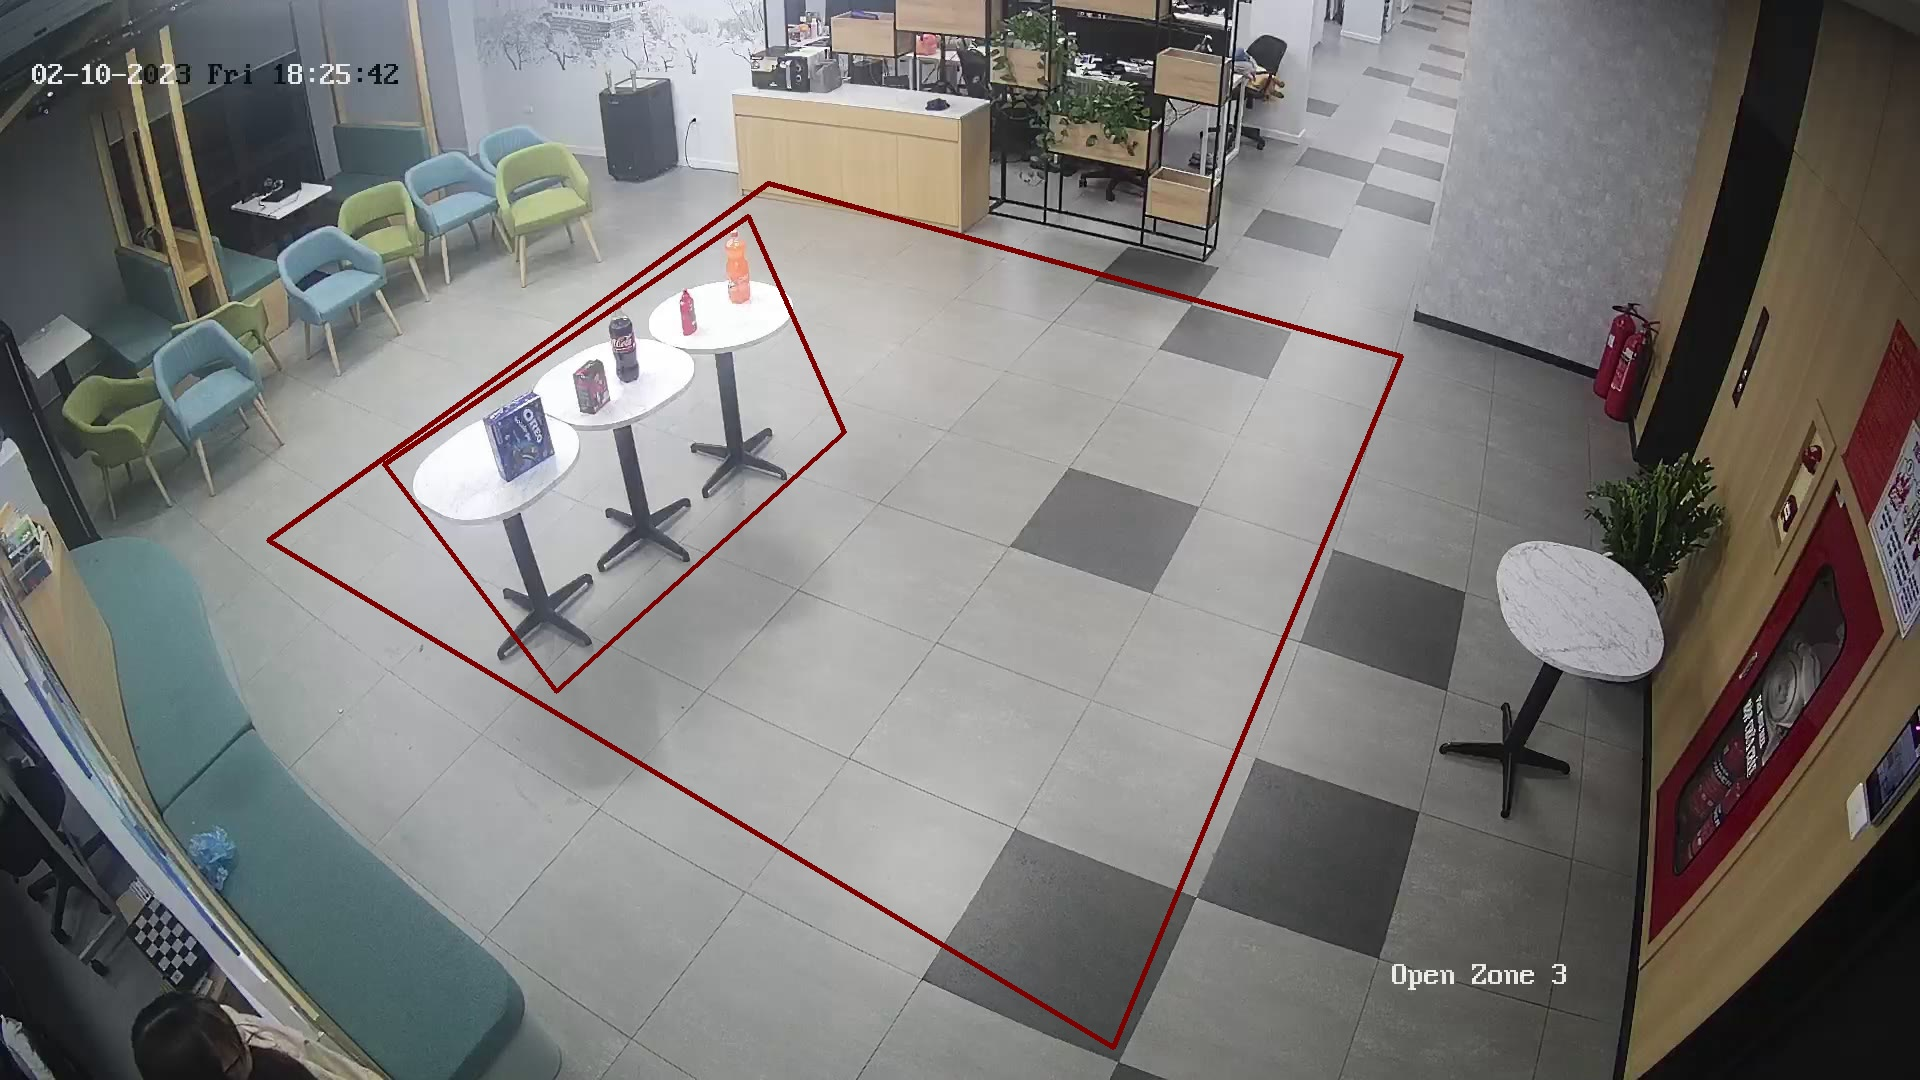
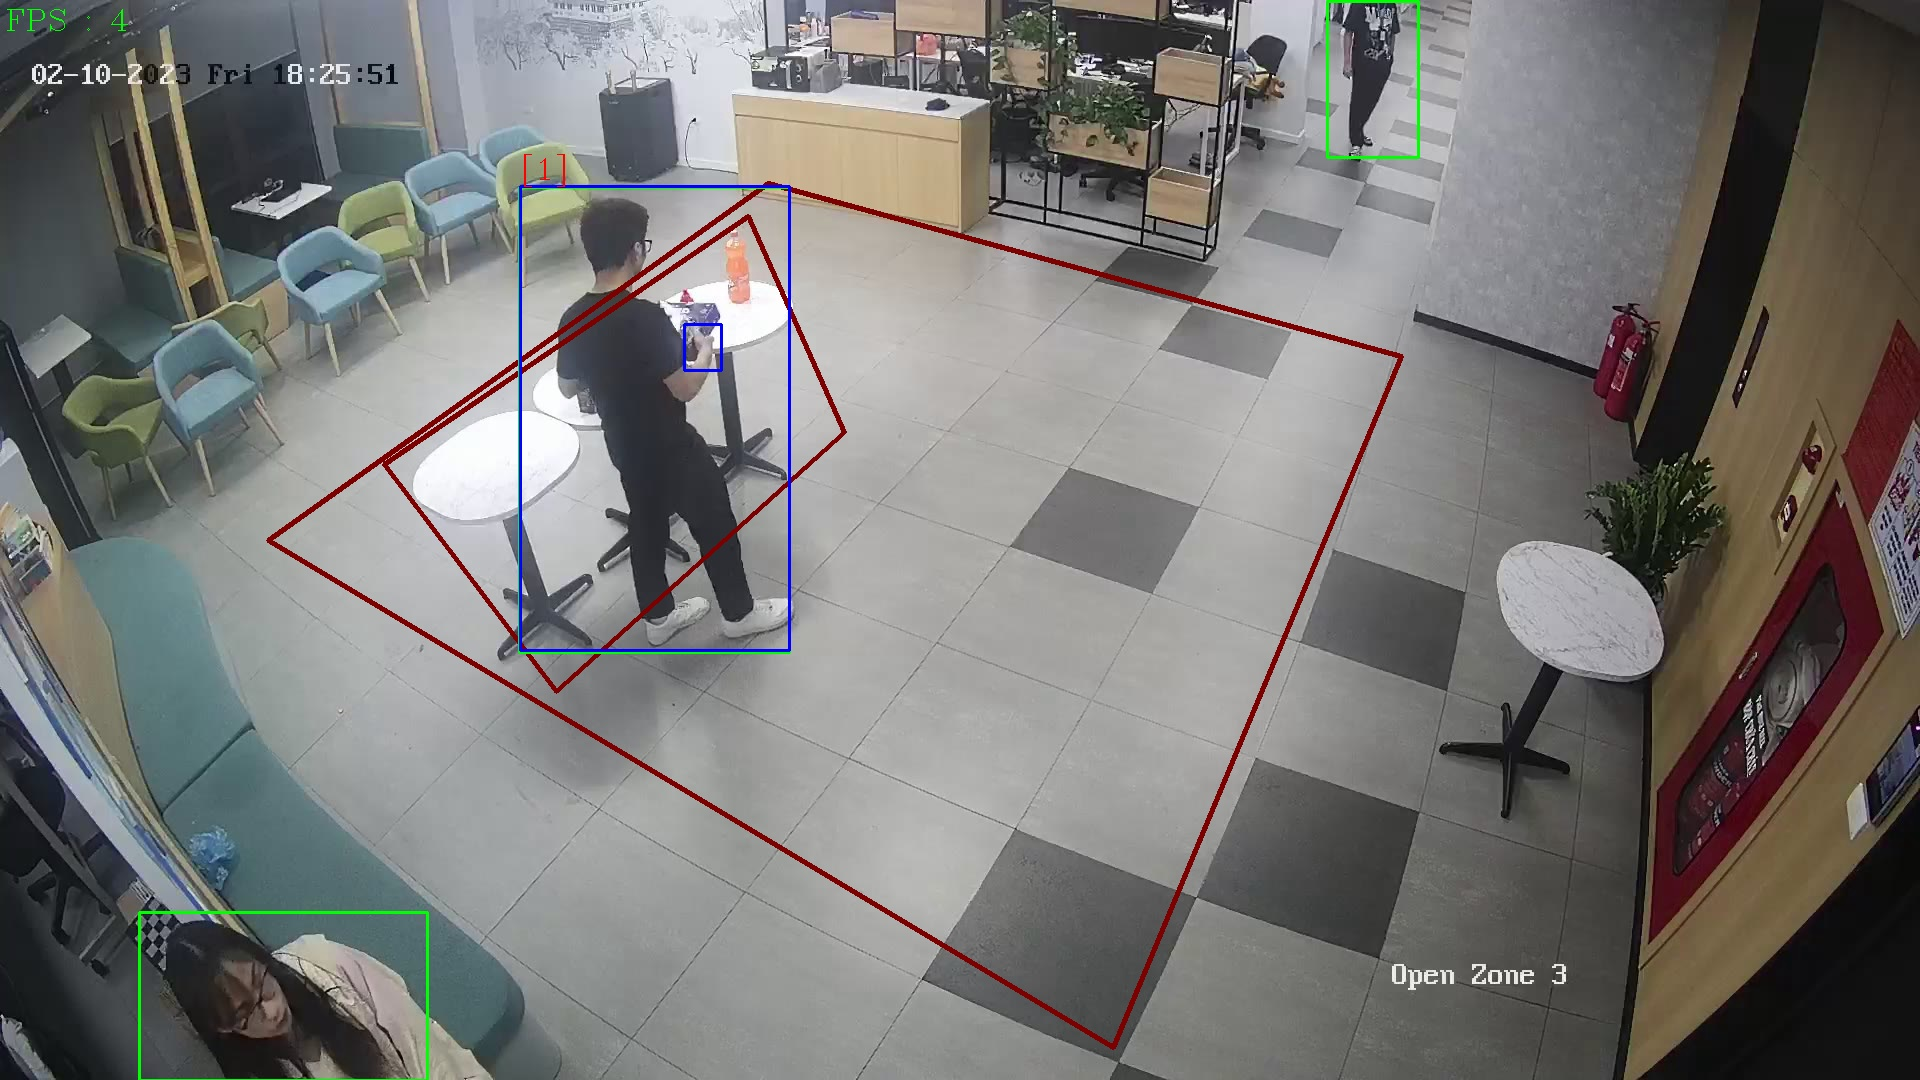
fix wrong type of object (numpy array)

diff --git a/frame_process.py b/frame_process.py
@@ -70,7 +70,7 @@ class Frame(object):
         for i, box in enumerate(self.boxes):
             if self.classes_id[i] != 0 and self.classes_id[i] != 6:
                 i_box = Box(Point(box[0], box[1]), Point(box[2], box[3]))
-                i_obj = Item(self.classes_id[i], box[4], i_box, frame_id=self.ith)
+                i_obj = Item(self.classes_id[i], i_box, box[4], frame_id=self.ith)
                 self.frame_objs["items"].append(i_obj)
                 
     def tracking(self, input_size, aspect_ratio_thresh, min_box_area, visualize=True):
@@ -81,7 +81,6 @@ class Frame(object):
             box_area = []
             for box in self.human_boxes:
                 area = self.which_human_area(box[:4])
-                print(area)
                 box_area.append(area)
             box_area = np.array(box_area)
             self.human_boxes = self.human_boxes[box_area != "outside"]
@@ -127,15 +126,21 @@ class Frame(object):
                 
                 # append human objects 
                 for i, box in enumerate(self.human_boxes):
+                    
                     p_box = Box(Point(box[0], box[1]), Point(box[2], box[3]))
                     p_id = box[-1]
                     hands = self.hands_boxes[self.hands_boxes[:,-1] == p_id]
                     hands_list = list()
+                    
                     for h in hands:
+                        print("h ", h)
                         h_box = Box(Point(h[0], h[1]), Point(h[2], h[3]))
+                        print("h_box ", h_box)
                         h_obj = Hand(6, h_box, h[4], h[-1], frame_id=self.ith)
+                        print("h_obj ", h_obj.box.top_left.x)
                         hands_list.append(h_obj)
-                    p_obj = Human(0, online_scores[i], p_box, online_ids[i], hands_list, frame_id=self.ith)
+                    p_obj = Human(0, p_box, online_scores[i], online_ids[i][0], hands_list, frame_id=self.ith)
+                    
                     self.frame_objs["humans"].append(p_obj)
     
     def whose_hand(self):

diff --git a/main.py b/main.py
@@ -30,8 +30,8 @@ class Behavior:
         self.last_human_ids = last_human_ids
         
     def get_item(self):
+        
         status = {}
-        print(self.last_human_ids)
         # Iterate all humans id
         for id in self.last_human_ids:
             
@@ -46,15 +46,17 @@ class Behavior:
                     if human_obj.id == id:
                         
                         human_box = human_obj.box
-                        midx, midy = human_box.center_point
+                        midx, midy = human_box.center_point()
                         area = search_area(1920, 1080, midx, midy)
                         in_shelf = True if area == "shelf" else False
                         human_hands = human_obj.hands
                         
                         for hand_obj in human_hands:
                             for item_obj in frame_items:
+                                
                                 if hand_obj.touch(item_obj):
                                     is_touching = True
+                                    
             status[id] = in_shelf and is_touching
                         
         return status
@@ -160,14 +162,15 @@ class VideoRetailStore(object):
             
             if ith >= 10:
                 behavior = Behavior(consecutive_frame_humans, consecutive_frame_items, last_human_ids)
-                print(len(consecutive_frame_humans))
                 print(behavior.get_item())
-                    
+                print("=============================================")
             # Display FPS
             end_time = time.time()
             fps = 1/(end_time - start_time)
             cv2.putText(frame, "FPS : {}".format(int(fps)), (5, 30), cv2.FONT_HERSHEY_COMPLEX, 1, (0, 255, 0))
-            ith +=1             
+            ith +=1      
+                   
+            cv2.imwrite("c.jpg", frame)
             
             if self.args.display:
                 cv2.namedWindow("Retail", cv2.WINDOW_KEEPRATIO)

diff --git a/yolov7/object.py b/yolov7/object.py
@@ -24,7 +24,7 @@ class Box:
 
 class Object:
     
-    def __init__(self, cls_id, conf, box:Box, id=None, frame_id=0)-> None:
+    def __init__(self, cls_id, box:Box, conf, id=None, frame_id=0)-> None:
         self.cls_id = cls_id
         self.box = box # top left bottom right
         self.conf = conf
@@ -36,9 +36,11 @@ class Object:
             box: Box
         '''     
     
-    def overlap_with(self, object, thres=0.5) -> float:
+    def overlap_with(self, object) -> float:
+        
         # Compute S area 2 boxes
-        S_self = (self.box.bot_right.x - self.box.top_left.x) * (self.box.bot_right.y - self.box.top_left.y)
+        # import ipdb; ipdb.set_trace()
+        S_self = (self.box.bot_right.x - self.box.top_left.x)*(self.box.bot_right.y - self.box.top_left.y)
         S_object = (object.box.bot_right.x - object.box.top_left.x)*(object.box.bot_right.y - object.box.top_left.y)
 
         # Compute coor overlap area
@@ -66,13 +68,13 @@ class Hand(Object):
         super().__init__(cls_id, box, conf, frame_id=frame_id)
         self.id_person = id_person
 
-    def touch(self, item:Item, thres=0.5):
+    def touch(self, item:Item, thresh=0.5):
         iou_score = self.overlap_with(item)
-        return True if iou_score >= thres else False
+        return True if iou_score >= thresh else False
 
 class Human(Object):
-    def __init__(self, cls_id, conf, box: Box, id, hands:List[Hand], frame_id) -> None:
-        super().__init__(cls_id, conf, box, id, frame_id)
+    def __init__(self, cls_id, box: Box, conf, id, hands:List[Hand], frame_id) -> None:
+        super().__init__(cls_id, box, conf, id, frame_id)
         self.id = id
         self.hands = hands
 
